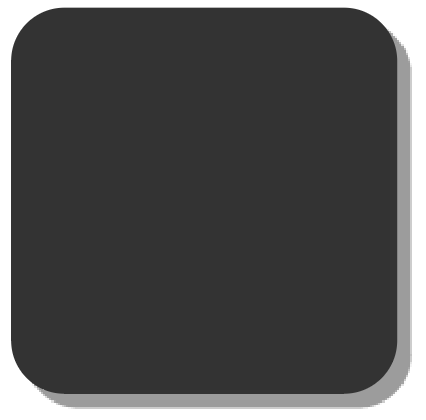
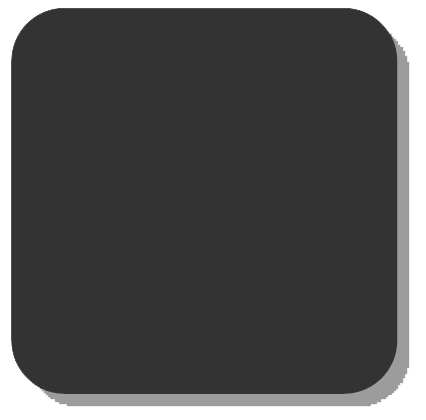
cardback issues

diff --git a/final/app.js b/final/app.js
@@ -7,6 +7,11 @@ const cards = []; //new array
 const gameState = {
 
 };
+let cardBack;
+function preload() {
+    cardBack = loadImage('images/back.png')
+
+}
 
 function setup() {
     //createCanvas(windowWidth, windowHeight);
@@ -40,13 +45,15 @@ class Card {
         this.show();
     }
 
+//allignment issues no fill = chaos
     show () {
         if (this.face === DOWN){
-            fill(0); //black
-        rect(this.x, this.y, this.width, this.height, 10);
+            fill(0); //black, tried no fill, no luck
+        rect(this.x, this.y, this.width, this.height, 20);
+        image(cardBack, this.x, this.y, 100, 100)
         } else { 
             fill('gray');
-        rect(this.x, this.y, this.width, this.height, 10);
+        rect(this.x, this.y, this.width, this.height, 20);
         }
     }
 
